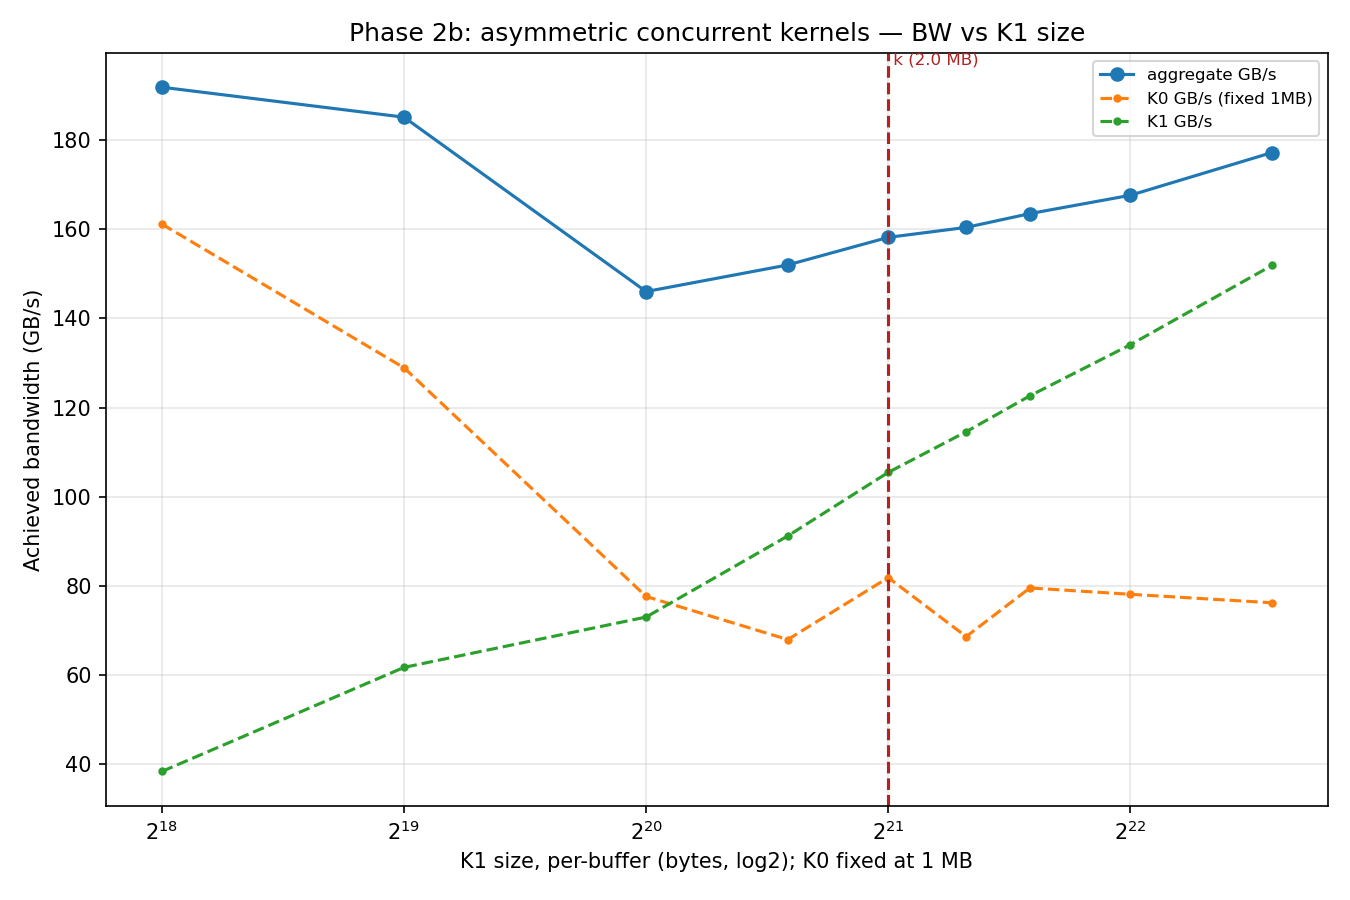
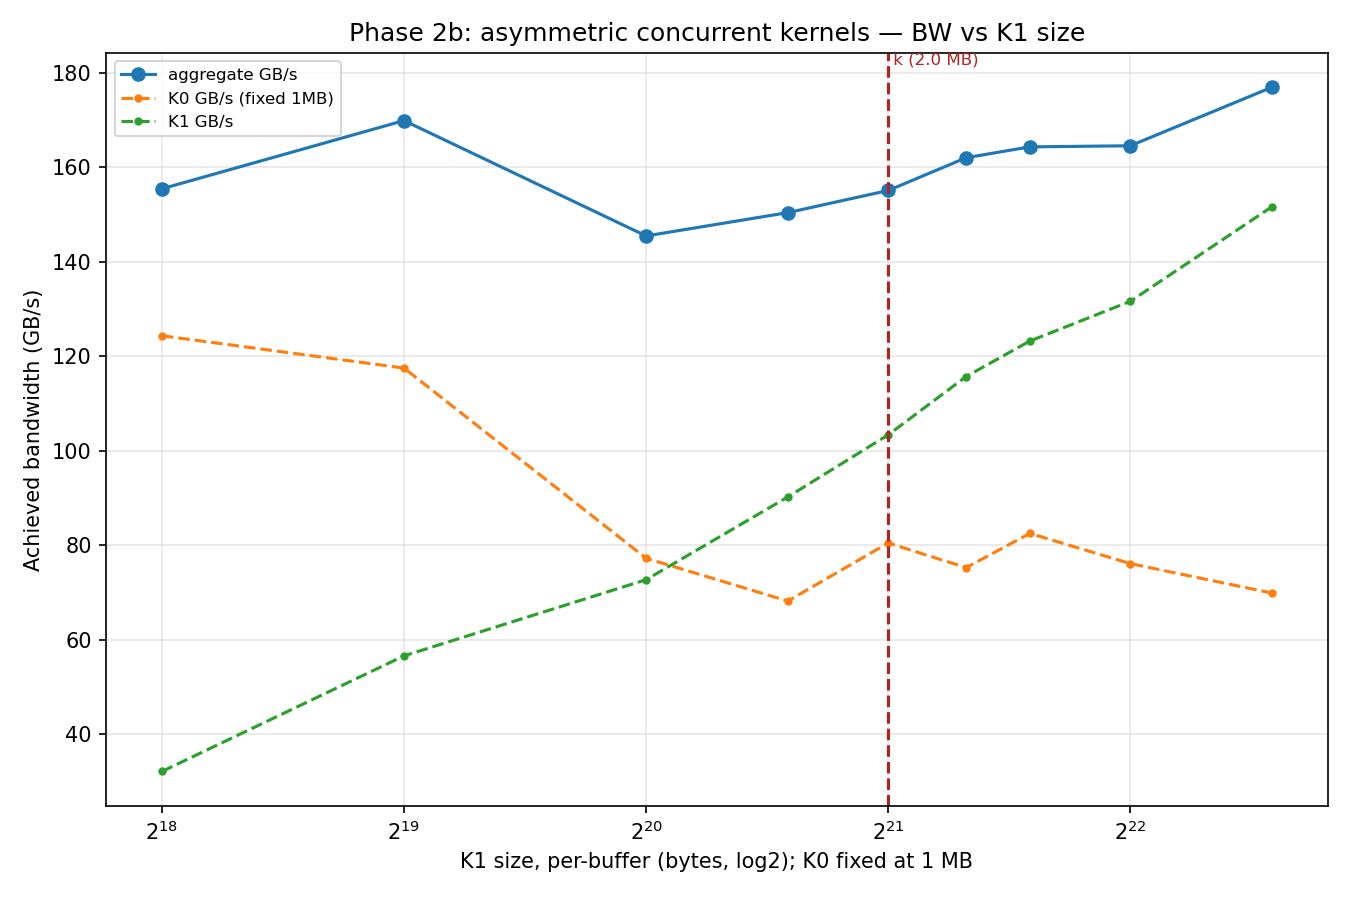
revised phase 2 results and findings

diff --git a/experiments/02_two_kernel_size/FINDINGS.md b/experiments/02_two_kernel_size/FINDINGS.md
@@ -1,6 +1,6 @@
 # Phase 2 Findings — Two-Kernel Size Sweep
 
-Generated 2026-07-24T08:25:32Z from `experiments/02_two_kernel_size/results/phase2_results.csv`. All numbers below are
+Generated 2026-07-24T08:31:27Z from `experiments/02_two_kernel_size/results/phase2_results.csv`. All numbers below are
 computed directly from that CSV by `scripts/derive_findings.py` — re-run it (do not hand-edit)
 if the CSV is regenerated. Consumed upstream: experiments/01_single_kernel_size/findings.json.
 
@@ -8,7 +8,7 @@ if the CSV is regenerated. Consumed upstream: experiments/01_single_kernel_size/
 
 - **Per-kernel size (worst measured contention):** 917,504 bytes (~0.88 MB)
 - **Combined read footprint:** 3,670,016 bytes
-- **scaling_efficiency at this point (local minimum):** 0.2598
+- **scaling_efficiency at this point (local minimum):** 0.2627
 
 `symmetric_roofline_points` (onset + ~90%-below point, for Phase 3/4): see `findings.json`.
 Onset here is defined as the local minimum of `scaling_efficiency` across the sweep, not the
@@ -18,9 +18,9 @@ for why (real data need not decay monotonically from ~1.0).
 ## 2b — Asymmetric result at k
 
 - **k (per-buffer bytes):** 2,097,152
-- **aggregate GB/s at k:** 158.172
-- **K0 GB/s at k:** 81.852
-- **K1 GB/s at k:** 105.448
+- **aggregate GB/s at k:** 155.094
+- **K0 GB/s at k:** 80.511
+- **K1 GB/s at k:** 103.396
 
 ## Recommended Phase 3 test points
 
